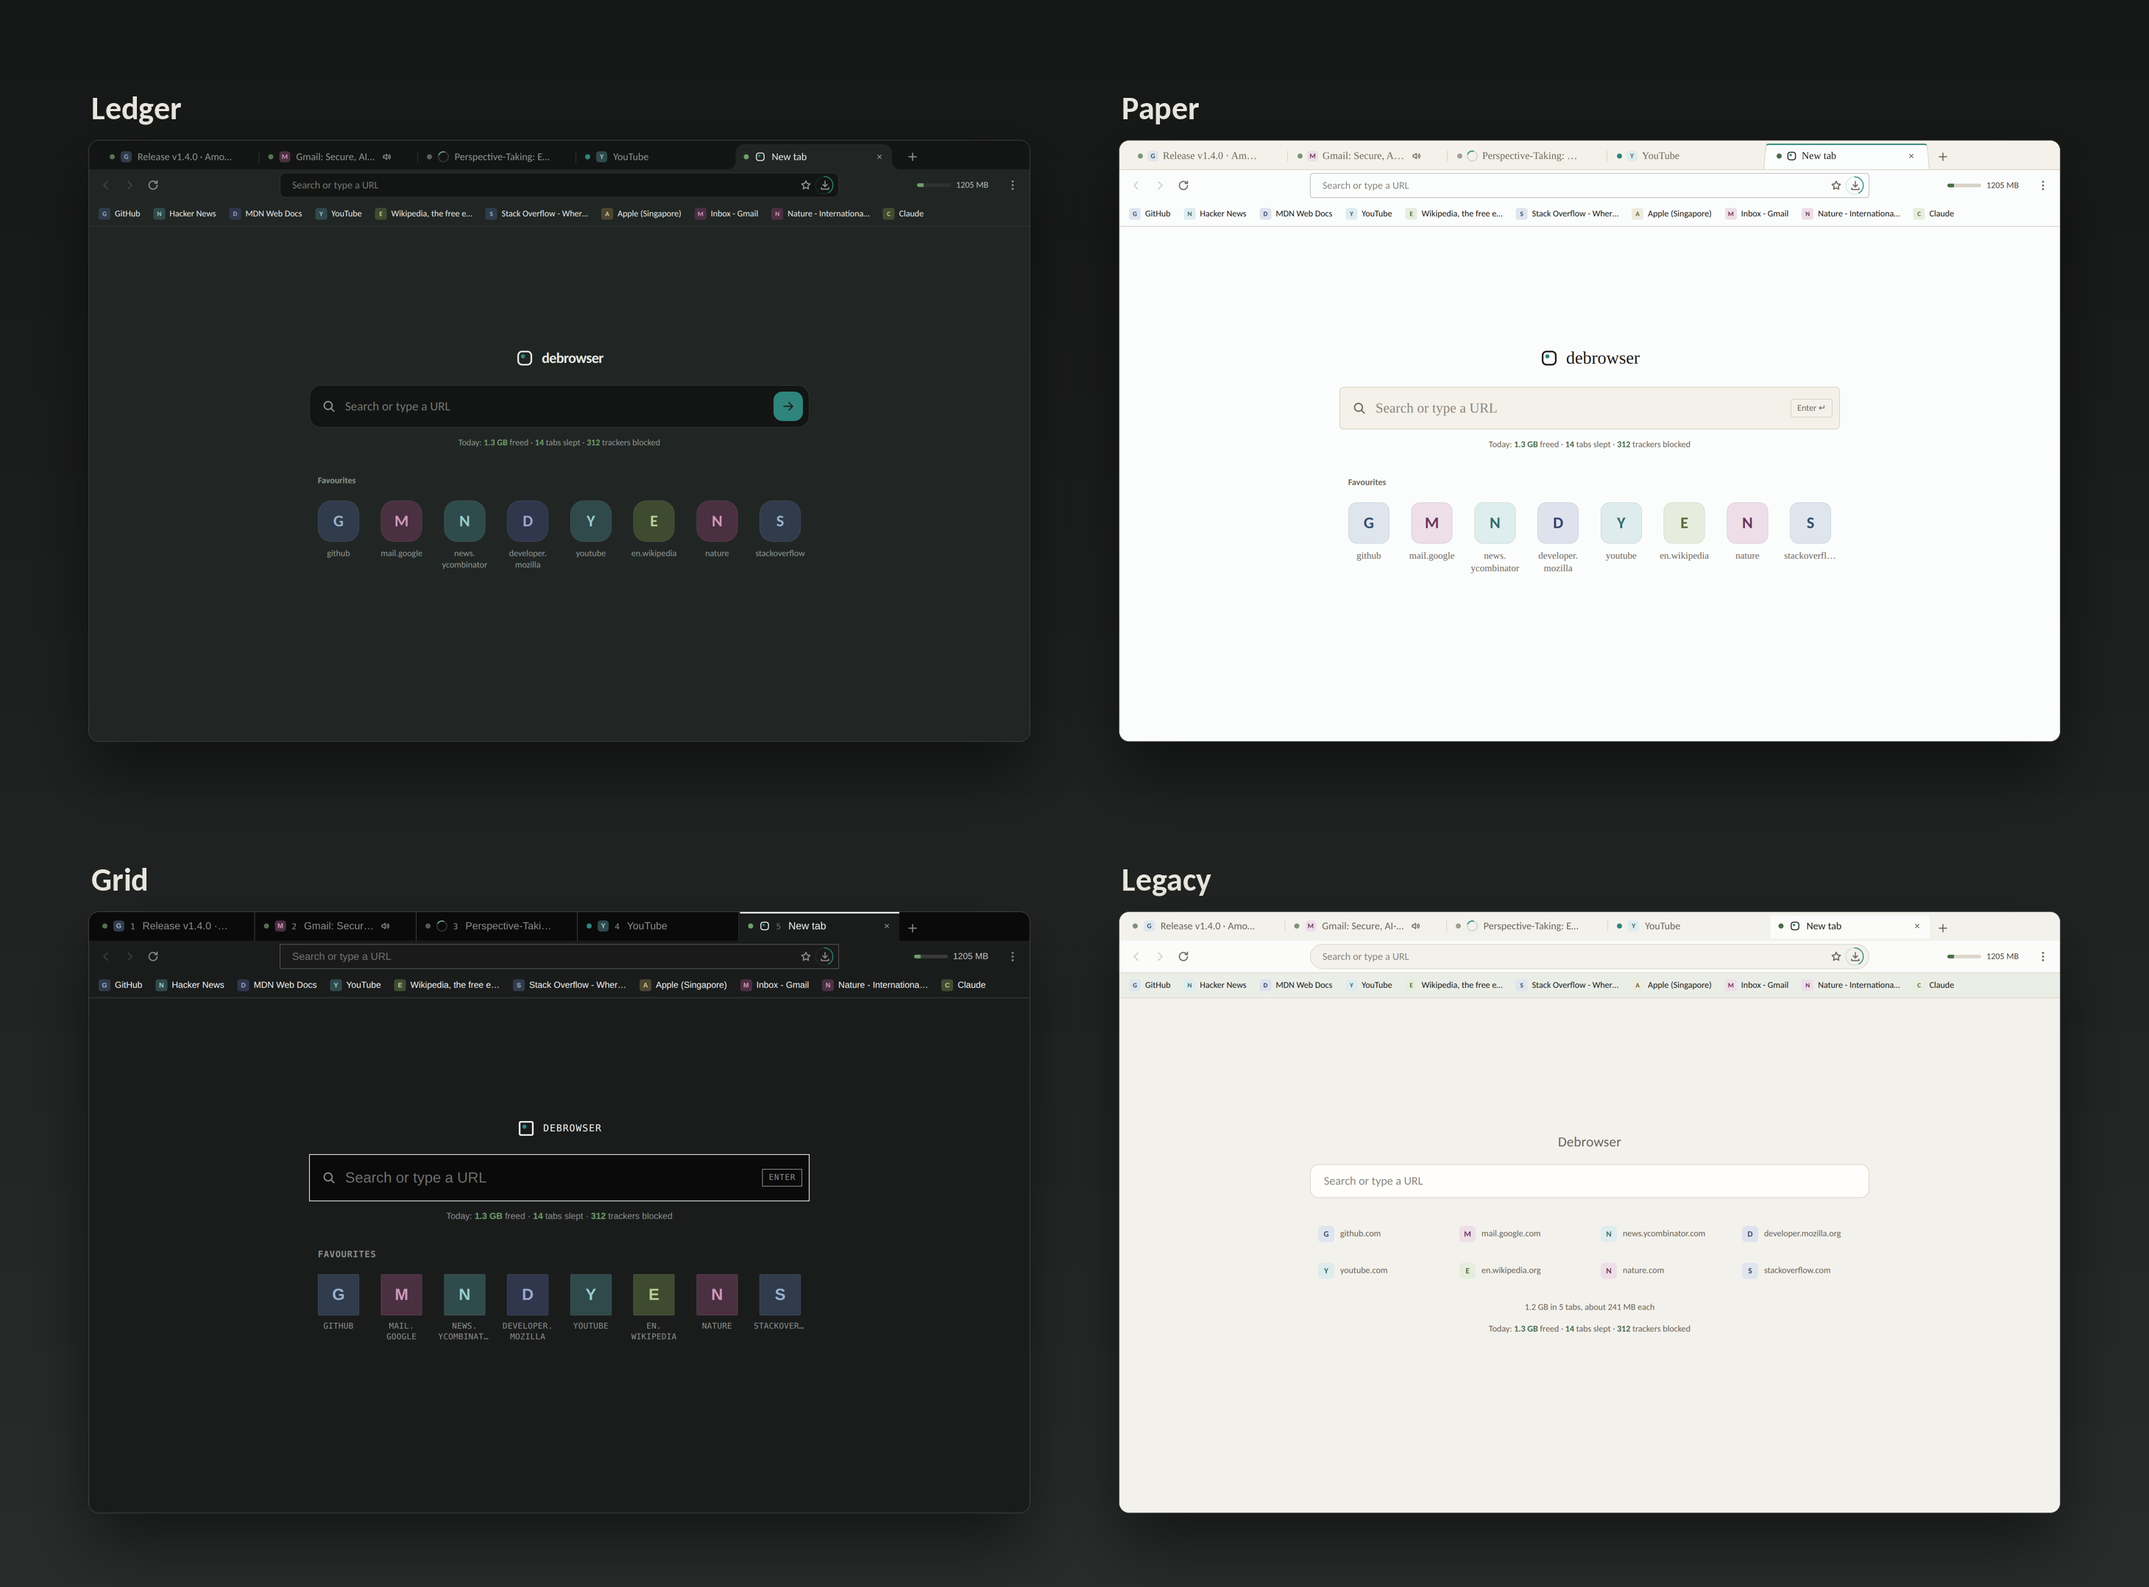
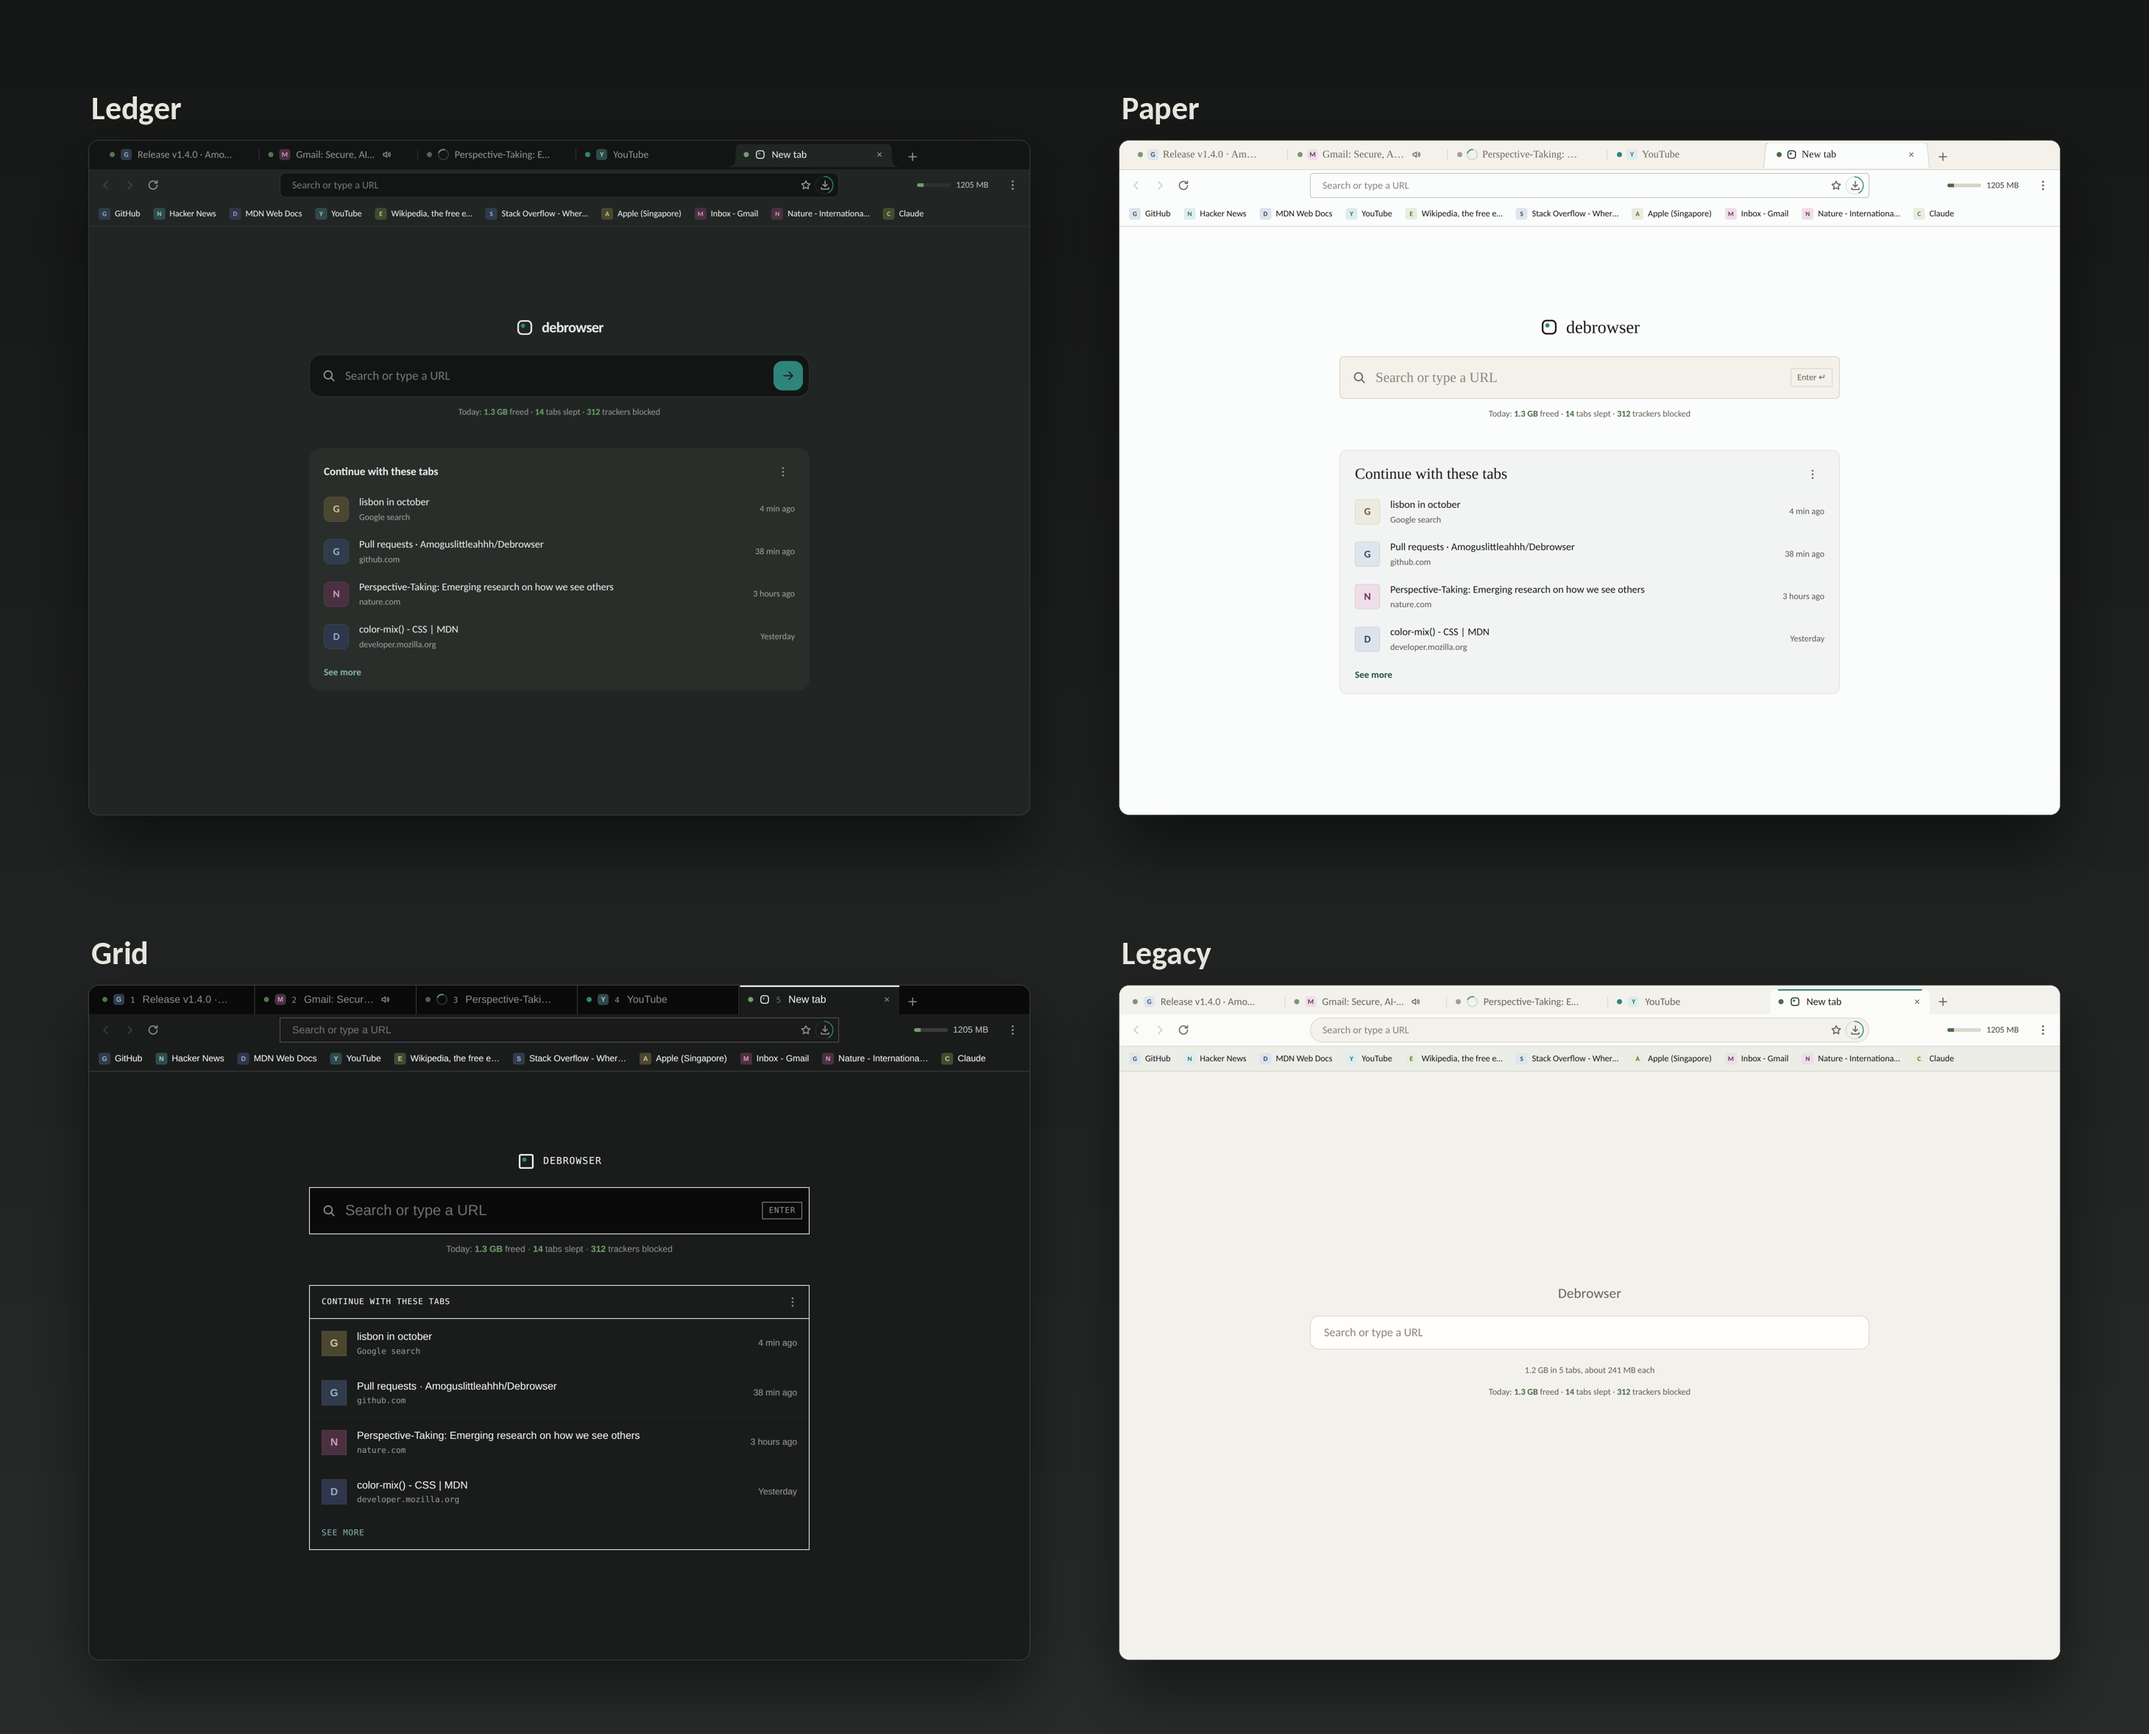
[UI] Continue with these tabs: a list, legible, and the layout people see
The new tab with history - continueCard is on by default, so this is the
page most people get - was never photographed: the screenshot tool had no
recent pages. It does now (newtab-continue), and the audit found 'See more'
at 3.7:1 and Ledger's dim lines at 4.46:1 on the card's lifted surface.
Both fixed, inside the card only.

Rows: a search shows as its query with the engine underneath; the time sits
at the end of the row; every icon on one tile size. Favourites stand aside
while the card has rows. The field's focus is a quiet accent edge, not a
halo on a page nobody has touched. Showcase uses this layout. Audit: 0 in
four designs x two themes; smoke 246/246.

Claude-Session: https://claude.ai/code/session_014uKfeT4osZDuKQbSMdyD6J

diff --git a/src/renderer/newtab.css b/src/renderer/newtab.css
@@ -292,8 +292,11 @@ body:is([data-design="ledger"], [data-design="paper"], [data-design="grid"]) #q 
   font-size: 17px;
 }
 body:is([data-design="ledger"], [data-design="paper"], [data-design="grid"]) #q:focus {
-  border-color: var(--accent);
-  box-shadow: var(--ring);
+  /* The field has the keyboard from the moment the page opens, so its focus
+     is a state it sits in, not an event: the accent edge says where typing
+     goes, without the halo glowing at someone who has not touched anything. */
+  border-color: color-mix(in srgb, var(--accent) 70%, var(--border));
+  box-shadow: none;
 }
 
 /* Paper: a serif in a barely rounded box. */
@@ -349,16 +352,43 @@ body:is([data-design="ledger"], [data-design="paper"], [data-design="grid"]) .co
   display: flex; align-items: center; gap: 14px; width: 100%;
   padding: 9px 12px; border: 0; border-radius: var(--radius);
   background: transparent; color: var(--text); font: inherit; text-align: left;
+  transition: background-color var(--fast) var(--ease);
 }
-.continue-row:hover { background: var(--wash-soft); }
-.continue-row .chip, .continue-row .site-icon { flex: none; }
-.continue-text { display: flex; flex-direction: column; gap: 2px; min-width: 0; }
+.continue-row:hover { background: var(--wash-soft); transition-duration: var(--instant); }
+/* Each row's mark on a tile of one size - a favicon on its own floated at
+   whatever size it was drawn, beside two lines of text. */
+.continue-row .chip {
+  flex: none;
+  width: 34px;
+  height: 34px;
+  border-radius: var(--radius);
+  font-size: 14px;
+  box-shadow: inset 0 0 0 0.5px color-mix(in srgb, var(--text) 14%, transparent);
+}
+.continue-row .chip.has-icon { background: var(--bg); }
+.continue-row .site-icon { inset: 8px; width: 18px; height: 18px; border-radius: 4px; }
+.continue-text { flex: 1; display: flex; flex-direction: column; gap: 2px; min-width: 0; }
+.continue-when {
+  flex: none;
+  margin-left: 12px;
+  font-size: var(--fs-small);
+  color: var(--text-dim);
+  font-variant-numeric: tabular-nums;
+}
+/* With the card showing, the favourites give it the room (newtab.js). */
+body.with-continue .tiles { display: none !important; }
 .continue-title { font-size: var(--fs-body); overflow: hidden; text-overflow: ellipsis; white-space: nowrap; }
 .continue-meta { font-size: 12px; color: var(--text-dim); overflow: hidden; text-overflow: ellipsis; white-space: nowrap; }
 .continue-all {
   margin: 6px 12px 0; padding: 4px 0; border: 0; background: transparent;
-  color: var(--accent-text); font: inherit; font-size: 13px; font-weight: 600;
+  /* The accent, drawn toward the text colour: on the card's lifted surface the
+     plain accent text measured 3.7:1 - a link that is hard to read is one
+     nobody presses. */
+  color: color-mix(in srgb, var(--accent-text) 62%, var(--text)); font: inherit; font-size: 13px; font-weight: 600;
 }
+/* The card's secondary text, a step brighter than the page's: the card is
+   lifted off the page, and the page's dim grey fell just under 4.5:1 on it. */
+.continue :is(.continue-meta, .continue-when) { color: color-mix(in srgb, var(--text-dim) 88%, var(--text)); }
 .continue-all:hover { text-decoration: underline; }
 
 body[data-design="paper"] .continue-head h2 { font-family: var(--font-display); font-size: 21px; font-weight: 400; }

diff --git a/src/renderer/newtab.js b/src/renderer/newtab.js
@@ -156,6 +156,26 @@ function ago(at) {
   return new Date(at).toLocaleDateString(undefined, { day: 'numeric', month: 'short' });
 }
 
+/**
+ * The query and the engine, when a recent page is a search results page.
+ * Read from the address, where the query is exact, rather than from the
+ * title, whose wording each engine sets.
+ */
+const ENGINES = [
+  { host: /(^|\.)google\.[a-z.]+$/, path: /^\/search/, param: 'q', name: 'Google' },
+  { host: /(^|\.)bing\.com$/, path: /^\/search/, param: 'q', name: 'Bing' },
+  { host: /(^|\.)duckduckgo\.com$/, path: /^\/$/, param: 'q', name: 'DuckDuckGo' },
+  { host: /(^|\.)search\.brave\.com$/, path: /^\/search/, param: 'q', name: 'Brave' },
+  { host: /(^|\.)ecosia\.org$/, path: /^\/search/, param: 'q', name: 'Ecosia' }
+];
+function searchOf(item) {
+  let url;
+  try { url = new URL(item.url); } catch { return null; }
+  const engine = ENGINES.find((e) => e.host.test(url.hostname) && e.path.test(url.pathname));
+  const query = engine && (url.searchParams.get(engine.param) || '').trim();
+  return query ? { query, engine: engine.name } : null;
+}
+
 function continueRow(item) {
   const row = document.createElement('button');
   row.type = 'button';
@@ -165,12 +185,20 @@ function continueRow(item) {
   text.className = 'continue-text';
   const title = document.createElement('span');
   title.className = 'continue-title';
-  title.textContent = item.title || siteOf(item.url);
   const meta = document.createElement('span');
   meta.className = 'continue-meta';
-  meta.textContent = `${siteOf(item.url)} · ${ago(item.visitedAt)}`;
+  // A search reads as what was searched for, not as "query - Google Search":
+  // the engine's name repeated down the card said nothing the second line
+  // could not, and pushed the query itself toward the ellipsis.
+  const searched = searchOf(item);
+  title.textContent = searched ? searched.query : (item.title || siteOf(item.url));
+  meta.textContent = searched ? `${searched.engine} search` : siteOf(item.url);
   text.append(title, meta);
-  row.append(siteChip(item.url, { icon: item.icon }), text);
+  // When, on its own at the end of the row, where a list's times line up.
+  const when = document.createElement('span');
+  when.className = 'continue-when';
+  when.textContent = ago(item.visitedAt);
+  row.append(siteChip(item.url, { icon: item.icon }), text, when);
   row.addEventListener('click', (event) => {
     if (event.ctrlKey || event.metaKey) api.send('new-tab', { url: item.url });
     else api.send('navigate', { url: item.url });
@@ -185,6 +213,10 @@ async function loadContinue() {
   const res = await api.request('recent-pages', { limit: 4 });
   const items = (res && res.items) || [];
   card.hidden = items.length === 0;
+  // The card is the page's second half when it has something to show; the
+  // favourites stand aside for it rather than stacking a third block between
+  // the field and the pages you were reading.
+  document.body.classList.toggle('with-continue', !card.hidden);
   cardList.replaceChildren(...items.map(continueRow));
   fitCard();
 }

diff --git a/tools/shoot.js b/tools/shoot.js
@@ -38,6 +38,13 @@ const TABS = [
   { id: 5, title: 'New tab',                                     url: 'debrowser://newtab', visible: false, tier: 'discarded', rssMB: 0, loading: false, favicon: null, audible: false, boosted: false }
 ];
 
+const RECENT = { items: [
+  { url: 'https://www.google.com/search?q=lisbon+in+october', title: 'lisbon in october - Google Search', visitedAt: Date.now() - 4 * 60_000 },
+  { url: 'https://github.com/Amoguslittleahhh/Debrowser/pulls', title: 'Pull requests · Amoguslittleahhh/Debrowser', visitedAt: Date.now() - 38 * 60_000 },
+  { url: 'https://www.nature.com/articles/perspective', title: 'Perspective-Taking: Emerging research on how we see others', visitedAt: Date.now() - 3 * 3600_000 },
+  { url: 'https://developer.mozilla.org/en-US/docs/Web/CSS/color-mix', title: 'color-mix() - CSS | MDN', visitedAt: Date.now() - 26 * 3600_000 }
+] };
+
 const STATE = {
   receipt: { freedMB: 1290, slept: 14, blocked: 312, cleaned: 6, stopped: 0 },
   tabs: TABS, activeId: 1, totalMB: 1205, budgetMB: 6144, rssTotalMB: 512,
@@ -242,6 +249,9 @@ const SHOTS = [
   { name: 'history',  file: 'history.html',  w: 1280, h: 700 },
   { name: 'downloads', file: 'downloads.html', w: 1280, h: 700 },
   { name: 'newtab',   file: 'newtab.html',   w: 1280, h: 700 },
+  // The new tab with history: "Continue with these tabs", the layout most
+  // people see once they have browsed at all (continueCard is on by default).
+  { name: 'newtab-continue', file: 'newtab.html', w: 1280, h: 800, recent: true },
   { name: 'panel',    file: 'panel.html',    w: 360,  h: 700 },
   { name: 'flyout',   file: 'flyout.html',   w: 700,  h: 520 },
   { name: 'update',   file: 'update.html',   w: 900,  h: 560 },
@@ -323,6 +333,9 @@ app.whenReady().then(async () => {
     // Before the window, because the answers are serialised into its preload
     // arguments - set after it, and the page has already been given the old set.
     if (shot.answers) ANSWERS['context-model'] = ANSWERS[shot.answers];
+    // Recent pages only for the shot that wants the Continue card, so the plain
+    // new tab keeps photographing the favourites.
+    ANSWERS['recent-pages'] = shot.recent ? RECENT : { items: [] };
 
     STATE.incognito = shot.incognito || null;
     STATE.saver = shot.saver === true;

diff --git a/src/main/smoke.js b/src/main/smoke.js
@@ -1964,8 +1964,10 @@ async function runSmoke({ tabs, governor, shell, cfg, prefs, menuModel, toggleDe
       Object.entries(seen).map(([d, r]) => `${d}: page=${r?.design} chrome=${r?.chrome}`).join(', '));
     // Favourites in the new designs, named for the site ("continue", not
     // "continue.test"); Legacy keeps its own list of hostnames.
-    check('the new designs show the mark in the chosen accent and favourites by name; Legacy keeps its list',
-      fresh.every((d) => seen[d].brand && seen[d].tiles && seen[d].dot === 'rgb(176, 48, 106)' &&
+    // With "Continue with these tabs" showing (history was planted above), the
+    // favourites stand aside for it - but are built, by name, underneath.
+    check('the new designs show the mark in the chosen accent, and favourites by name give way to Continue; Legacy keeps its list',
+      fresh.every((d) => seen[d].brand && !seen[d].tiles && seen[d].card && seen[d].dot === 'rgb(176, 48, 106)' &&
         seen[d].label.split(',').includes('continue')) &&
       !seen.legacy.brand && seen.legacy.label.split(',').includes('continue.test'),
       fresh.map((d) => `${d}: mark=${seen[d].brand} dot=${seen[d].dot} favourites=${seen[d].label}`).join(', ') +

diff --git a/CHANGELOG.md b/CHANGELOG.md
@@ -36,6 +36,8 @@
 
 ### Improved
 
+- **"Continue with these tabs" reads as a list.** A search shows as what you searched for, with the engine underneath, instead of "query - Google Search"; each page's time sits at the end of its row; every icon is on a tile of one size. While the card is showing, the favourites give it the room.
+- **The new tab's search field no longer glows on its own.** It has the keyboard as soon as the page opens, so it now shows that with a quiet accent edge rather than a halo.
 - **The window reads as one surface.** In Ledger, Paper and Grid the toolbar and the bookmarks bar no longer have a line between them, and the new tab page is the toolbar's own colour, with its search field set into it as the address bar is set into the toolbar.
 - **The new tab page has your favourites.** In Ledger, Paper and Grid, the sites you visit most sit under the search field as large tiles with the site's name, in each design's own shapes and type, and the whole page is centred as one group. Legacy keeps its list.
 - **The browser's own pages carry its mark.** The New tab, Settings and History show the Debrowser mark in the tab strip, the bookmarks bar and history, instead of a purple D as if they were a website.
@@ -72,6 +74,7 @@
 
 ### Fixed
 
+- **"See more" and the grey lines in "Continue with these tabs" are easier to read.** On the card's lifted surface they fell below the contrast text needs, in Ledger, Paper and Grid.
 - **A question no longer answers another for you.** A prompt such as Save password? arriving while a site's camera, microphone or location question was on screen closed it, which counted as a refusal. Questions now wait their turn.
 - **The task manager finishes drawing straight after opening.** Opened before the browser's first memory reading, it stopped part-way and showed a dash where its summary line belongs.
 - **Private windows: the .onion button is no longer hidden under the address bar.** The centred address bar now measures what is beside it, so the onion button, the private pill and Slow page? always have room. In Grid it was covered completely; in the other designs, half of it.
